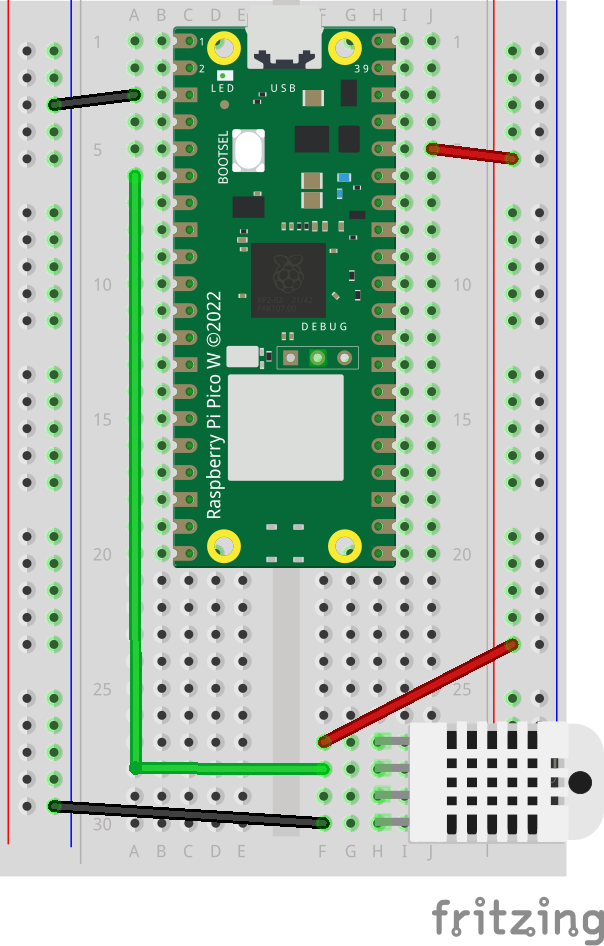
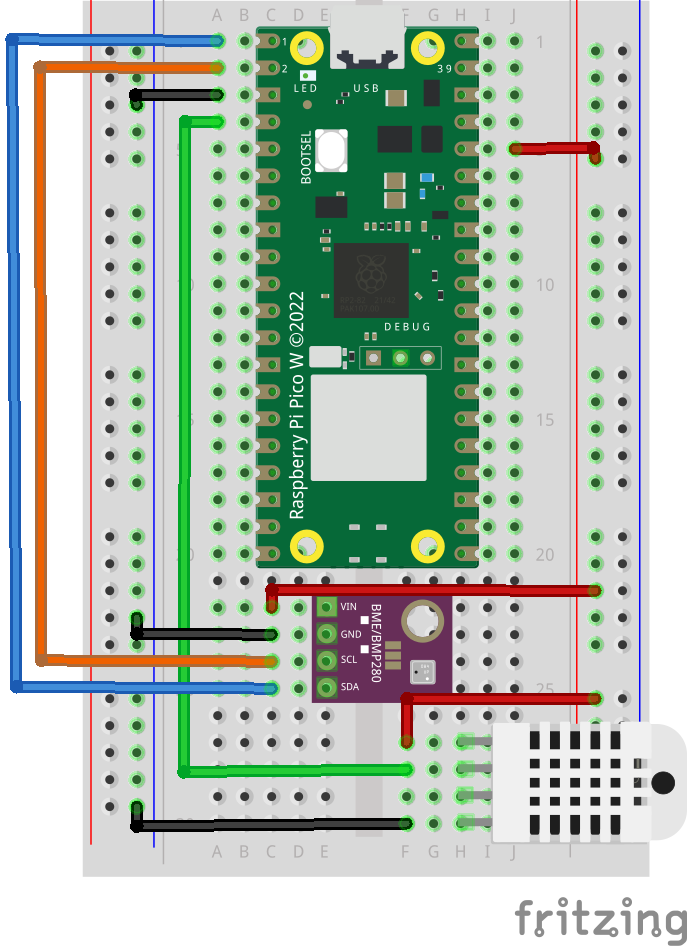
Update schema and breadboard [02_outdoor_weather]

diff --git a/res/fritzing_parts/README.md b/res/fritzing_parts/README.md
@@ -2,3 +2,4 @@ Sources:
 
 - [Pico W (shared on https://www.raspberrypi.com)](https://www.raspberrypi.com/documentation/microcontrollers/pico-series.html#pico-1-family): [`PicoW-Fritzing.fzpz`](./PicoW-Fritzing.fzpz) 
 - [DHT22 (by jowebe shared on https://forum.fritzing.org)](https://forum.fritzing.org/t/dht22-library-as-pictured/15582/3): [`DHT22-Humidity-and-Temperature-Sensor.fzpz`](./DHT22-Humidity-and-Temperature-Sensor.fzpz) 
+- [BMP280 (by vanepp shared on https://forum.fritzing.org)](https://forum.fritzing.org/t/bme-bmp-280-sensor/6143/2): [`BME280_improved.fzpz`](./BME280_improved.fzpz) 
